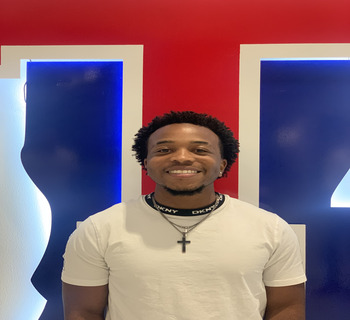
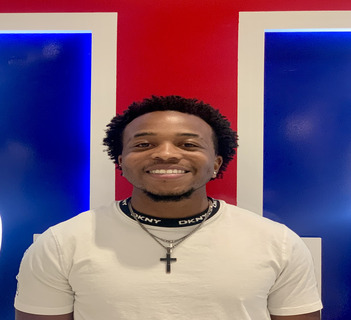
Headshots Done
working app need to add social links newpictures for home page and snow?

diff --git a/nsbe/src/components/pages/Programs.js b/nsbe/src/components/pages/Programs.js
@@ -1,6 +1,6 @@
 import React from 'react';
 import { SectionWrapper } from '../../hoc';
-import { img4,cory,male,female, lili, joe} from '../../assets';
+import { img4,cory,male,female, lili, joe, alvin, makayla, trey, wade} from '../../assets';
 import "./Programs.css"
 
 function Programs() {
@@ -34,7 +34,7 @@ function Programs() {
         <div className='content-team'>
           <div className='card-team'>
             <div className='box-team'>
-                  <img src={male} />
+                  <img src={alvin} />
             </div>
             <div className='info-team'>
               <div className='name-team'>Alvin Kie</div>
@@ -94,7 +94,7 @@ function Programs() {
           </div>
           <div className='card-team'>
             <div className='box-team'>
-                  <img src={female} />
+                  <img src={makayla} />
             </div>
             <div className='info-team'>
               <div className='name-team'>Makayla Isaac</div>
@@ -104,7 +104,7 @@ function Programs() {
           </div>
           <div className='card-team'>
             <div className='box-team'>
-                  <img src={male} />
+                  <img src={trey} />
             </div>
             <div className='info-team'>
               <div className='name-team'>Tremond Thompson</div>
@@ -114,7 +114,7 @@ function Programs() {
           </div>
           <div className='card-team'>
             <div className='box-team'>
-                  <img src={male} />
+                  <img src={wade} />
             </div>
             <div className='info-team'>
               <div className='name-team'>Wade Caskey</div>

diff --git a/nsbe/src/components/pages/Footer.js b/nsbe/src/components/pages/Footer.js
@@ -29,6 +29,13 @@ const Footer = () => {
                                 <i class="fa-brands fa-tiktok"></i>
                             </div>
                     </div>
+                    <div className='footer-links-div'>
+                        <h4>Donate</h4>
+                        <div className="footer-icons">
+                                <i class="fa-brands fa-paypal"></i>
+                                <i class="fa-brands fa-vimeo"></i>
+                            </div>
+                    </div>
                 </div>
                 <hr></hr>
                 <div className='footer-below'>

diff --git a/nsbe/src/assets/index.js b/nsbe/src/assets/index.js
@@ -12,6 +12,10 @@ import female from "./woman.jpg";
 import lili from './headshots/Lili.jpg'
 import joe from "./headshots/joe.jpg"
 import cory from "./headshots/cory.jpg"
+import alvin from "./headshots/alvin.jpg"
+import makayla from "./headshots/makayla.jpg"
+import trey from "./headshots/trey.jpg"
+import wade from "./headshots/wade.jpg"
 
 import nationals from './carousel/Nationals1.jpg';
 import nationals2 from './carousel/Nationals2.jpg';
@@ -38,5 +42,9 @@ export{
     nationals3,
     nationals4,
     newsBoard,
+    alvin,
+    wade,
+    makayla,
+    trey
     //snowflake
 };

diff --git a/nsbe/src/components/pages/Footer.css b/nsbe/src/components/pages/Footer.css
@@ -25,7 +25,7 @@
   }
 
   .footer{
-    background-color: #2d2d32;
+    background-color: white;
   }
   .sb_footer {
     display: flex;
@@ -47,7 +47,7 @@
     display: flex;
     justify-content: flex-start;
     flex-direction: column;
-    color: white;
+    color: black;
   }
   .footer-links-div h4{
     font-size: 18px;
@@ -72,10 +72,10 @@
     font-size: 13px;
     line-height: 15px;
     margin-left: 2rem;
-    color: white;
+    color: black;
     font-weight: 600;
   }
   hr{
-    color: white !important;
+    color: black !important;
     width: 100%;
   }

diff --git a/nsbe/src/components/Navbar.js b/nsbe/src/components/Navbar.js
@@ -43,7 +43,7 @@ function Navbar() {
             <ul className={click ? 'nav-menu active' : 'nav-menu'}>
           {navLinks.map((link) => (
             <li key={link.id} onClick={closeMobileMenu} className={`${ active === link.title ? 'nav-item ' :"text-slate-300"}`}>
-              <a href={`#${link.id}`} className='nav-links'>{link.title}</a>
+              <a href={`#${link.id}`} onClick={link.onclick} className='nav-links'>{link.title}</a>
             </li>
             
           ))}

diff --git a/nsbe/src/constants/index.js b/nsbe/src/constants/index.js
@@ -1,3 +1,9 @@
+const calendar = () => {
+  window.location.href = "https://calendar.google.com/calendar/embed?src=corystrickland13%40gmail.com&ctz=America%2FChicago";
+};
+
+
+
 export const navLinks = [
     {
       id: "about",
@@ -12,7 +18,8 @@ export const navLinks = [
       title: "CEB",
     },
     {
-      id: "donation",
-      title: "Donation",
+      id: "Calendar",
+      title: "Calendar",
+      onclick: calendar,
     },
   ];
